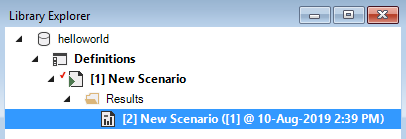
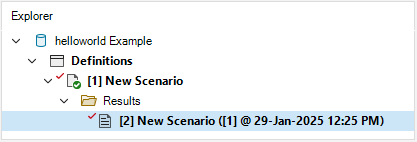
Updated Getting Started tutorial for SyncroSim 3

diff --git a/docs/getting_started.md b/docs/getting_started.md
@@ -15,42 +15,36 @@ In the meantime, please note that some instructions, references, and/or images m
 
 ## Quickstart Tutorial
 
-1. Download and install SyncroSim 2.2.27 or later from <a href="https://syncrosim.com/download/" target="_blank">https://syncrosim.com/download/</a>.
+1\. Download and install SyncroSim 3.0.19 or later from <a href="https://syncrosim.com/download/" target="_blank">https://syncrosim.com/download/</a>.
 
-2. Install the *helloworld* package in the SyncroSim user interface by selecting **File \| Packages \| Install...**
-<br>
-<br>
-3. If you need to update package versions, in SyncroSim go to **File \| Packages \| Update...**
-<br>
-<br>
-4. Create a new *helloworld* Library
-  * In SyncroSim, select **File \| New Library...**
-  * Select the *helloworld* base package and choose the *Empty Library* template.
-  * Enter a **Filename** (ok to keep the default) and a **Folder** for your new Library, then click **OK**.
-<br>
-<br>
-3. First, check your executable location by clicking on **helloworld** Library in the <a href="https://docs.syncrosim.com/how_to_guides/library_overview.html" target="_blank">Library Explorer</a>, and then selecting **Library Properties** from the **File** menu. Select the **R Configuration** tab to check and/or set the location of your R program executable.
-<br>
-<img align="middle" style="padding: 13px" width="600" src="assets/images/package_R_configuration.PNG">
-<br>
-<br>
-4. To edit the Scenario inputs, right-click on the auto-generated empty **New Scenario** in the <a href="https://docs.syncrosim.com/how_to_guides/library_overview.html" target="_blank">Library Explorer</a> and select **Properties**. Then select the **Inputs** tab and enter pairs of values for your **x** and **a** model inputs in the grid.
-<br>
+2\. Install the *helloworld* package in SyncroSim Studio by selecting **File > Local Packages > Install from Server...**.
+
+3\. Create a new *helloworld* library.
+  * In SyncroSim, select **File > New > Empty Library...**.
+  * Name the file **helloworld Example** (ok to keep default) and save the library to a desired *Folder* location. Click **Save**.
+  * In the *Explorer* window, right click on the **helloworld Example** library name and select **Open** from the context menu.
+  * Under the **General** tab, select **Packages**. Click **Add** to open the *Add Package* window, and select **helloworld**. Press **OK**.
+
+4\. First, check your executable location by clicking on **helloworld Example** library in the <a href="https://docs.syncrosim.com/how_to_guides/library_overview.html" target="_blank">*Explorer*</a> window, and then selecting **Open** from the context menu. Under the **System** tab, navigate to **Tools > R** to check and/or set the location of your R program executable.
+
+<img align="middle" style="padding: 13px" width="600" src="assets/images/package_R_configuration.png">
+
+5\. To edit the scenario inputs, right-click on the auto-generated empty **New Scenario** in the <a href="https://docs.syncrosim.com/how_to_guides/library_overview.html" target="_blank"> *Explorer*</a> window and select **Open**. Under the **General** tab, click on **Pipeline** and set the *Stage* to *Hello World* - it will automatically have a *Run Order* of *1*.
+
+<img align="middle" style="padding: 13px" width="600" src="assets/images/package_pipeline.png">
+
+6\. Under the **Hello World** tab, select **Inputs** and enter pairs of values for your **x** and **a** model inputs in the grid. **Save** the library.
+
 <img align="middle" style="padding: 13px" width="600" src="assets/images/package_create_input.png">
-<br>
-<br>
-5. To run the Scenario, right-click on this **New Scenario** again in the <a href="https://docs.syncrosim.com/how_to_guides/library_overview.html" target="_blank">Library Explorer</a> and select **Run**.
-<br>
-<br>
-5. Once the run is complete, return to the <a href="https://docs.syncrosim.com/how_to_guides/library_overview.html" target="_blank">Library Explorer</a>. Expand the node beside the **New Scenario** to reveal a **Results** folder containing your results, then expand the node beside the **Results** folder to show the newly generated date/time stamped *Results Scenario*. Each *Results Scenario* contains a read-only snapshot copy of all your inputs at the time of your run, along with values for your model generated outputs.
-<br>
-<img align="middle" style="padding: 13px" width="600" src="assets/images/package_create_result.png">
-<br>
-<br>
-6. Right-click on this *Results Scenario* and select **Properties** to view the details of this *Results Scenario*; you will find your calculated outputs under the **Outputs** tab.  
-<br>
-<img align="middle" style="padding: 13px" width="600" src="assets/images/package_create_output.png">
-<br>
-<br>
 
-For the complete tutorial on how to create the *helloworld* Package, see the <a href="https://docs.syncrosim.com/how_to_guides/package_create_overview.html" target="_blank">creating a package</a> tutorial in the <a href="https://docs.syncrosim.com/" target="_blank">SyncroSim documentation</a>.
+7\. To run the scenario, right-click on this **New Scenario** again in the <a href="https://docs.syncrosim.com/how_to_guides/library_overview.html" target="_blank"> *Explorer*</a> window and select **Run**.
+
+8\. Once the run is complete, return to the <a href="https://docs.syncrosim.com/how_to_guides/library_overview.html" target="_blank">*Explorer*</a> window. Expand the node beside the **New Scenario** to reveal a **Results** folder containing your results, then expand the node beside the **Results** folder to show the newly generated date/time stamped results scenario. Each results scenario contains a read-only snapshot copy of all your inputs at the time of your run, along with values for your model generated outputs.
+
+<img align="middle" style="padding: 13px" width="600" src="assets/images/package_create_result.png">
+
+9\. Right-click on this results scenario and select **Open** to view the details of this results scenario; you will find your calculated outputs in the **Hello World > Outputs** window.
+
+<img align="middle" style="padding: 13px" width="600" src="assets/images/package_create_output.png">
+
+For the complete tutorial on how to create the *helloworld* package, see the <a href="https://docs.syncrosim.com/how_to_guides/package_create_overview.html" target="_blank">creating a package</a> tutorial in the <a href="https://docs.syncrosim.com/" target="_blank">SyncroSim documentation</a>.

diff --git a/docs/index.md b/docs/index.md
@@ -24,9 +24,9 @@ This package requires the [latest SyncroSim release](https://syncrosim.com/downl
 
 ## How to Install
 
-Open SyncroSim and select **File -> Packages… -> Install…**, then select the **helloworld** package and click OK.
+Open SyncroSim and select **File > Local Packages... > Install from Server...**, then select the **helloworld** package and click OK.
 
-Alternatively, download <a href="https://github.com/ApexRMS/helloworld/releases/" target="_blank">the latest release from Github</a>. Open SyncroSim and navigate to packages, then install from file.
+Alternatively, download <a href="https://github.com/ApexRMS/helloworld/releases/" target="_blank">the latest release from Github</a>. Open SyncroSim and navigate to **File > Local Packages... > Install from File...**.
 <br>
 
 ## Getting Started
